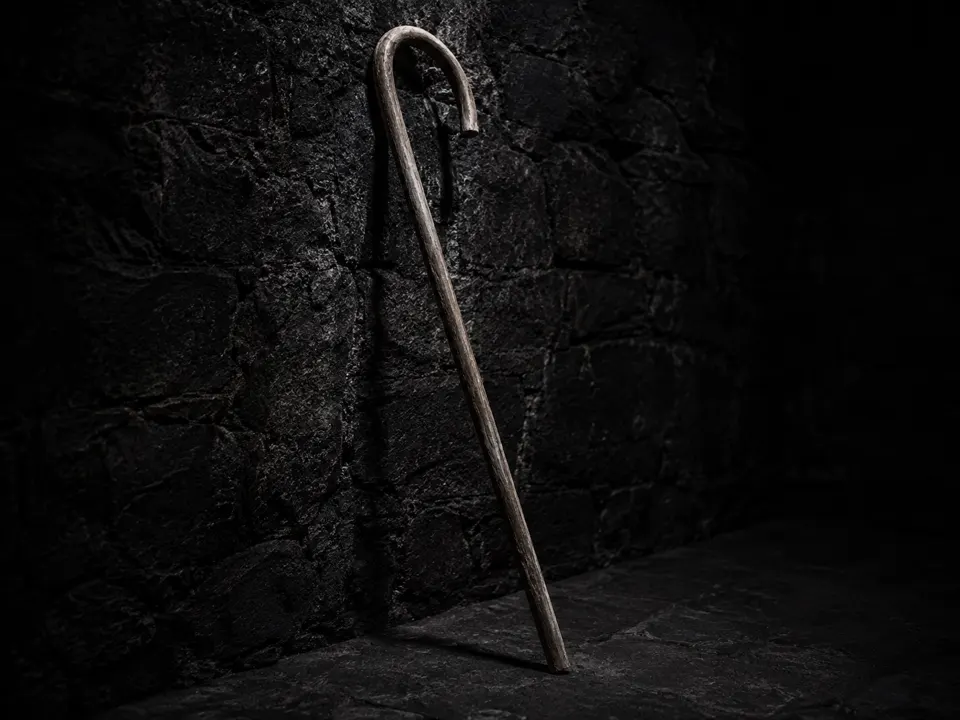
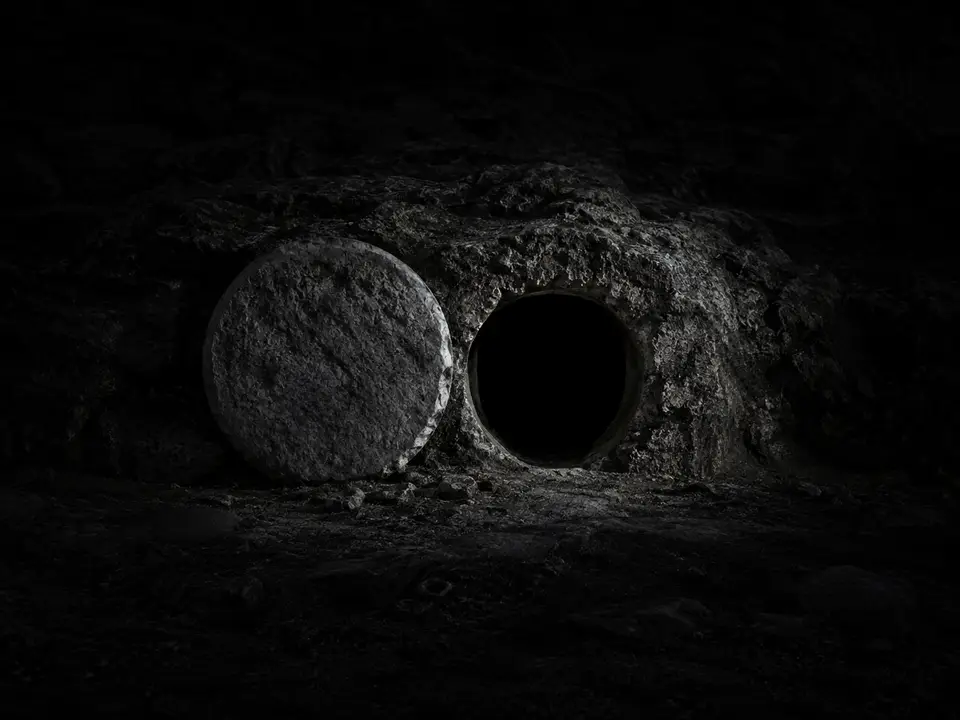
feat(learn): ship the who-is-jesus tomb cover; retire the horizon idea
The §17 stone rolled away replaces §11's crook under the same
filenames — 960x720 landscape, matching both the source and the
topic page's 4:3 frame.

§16's first light is marked superseded: shipped briefly, but twice
generated the horizon stayed a picture of almost nothing, and the
owner ruled the idea too thin for a card. §18 changes the argument
instead of the exposure — Paley's watch, the topic's own apologetic:
an exposed movement, no dial, because the argument is the mechanism,
not the time. Asset pending; the first-light files keep serving
until it lands.

Claude-Session: https://claude.ai/code/session_015vuexSSUSbhXARkoyDKz68

diff --git a/docs/graphics/PROMPTS.md b/docs/graphics/PROMPTS.md
@@ -476,7 +476,7 @@ Style: photographic, high contrast, sharply focused, not illustration, not a 3D 
 
 ## 16 · A primeira luz — first light (does-god-exist, recomposed)
 
-**Ships as:** `public/graphics/covers/does-god-exist.avif` + `.webp` — replaces §10's files under the same names, so `TOPIC_COVERS` and every consumer are untouched. The §8 move: same idea, recomposed for the surface that actually shows it.
+**Ships as:** shipped briefly, superseded by §18 — kept for the record. The recomposition gave §10's hairline enough weight to hold a card, but the owner ruled the line itself too thin an idea: twice generated, it stayed a picture of almost nothing. §18 changes the argument instead of the exposure.
 
 **Where it goes:** the third card of the homepage questions band and the topic page for `does-god-exist`. §10's rationale stands — cool and evidentiary, deliberately not a warm sunrise, light arriving out of darkness rather than mood — but the hairline is now a narrow graded band with enough presence to hold a card, and the composition is portrait with the horizon just below centre so it survives all three crops in use (3:4 card, 2.6:1 phone card, 4:3 topic page).
 
@@ -522,6 +522,32 @@ Composition: wide 4:3. The opening sits just off-centre with the rolled stone be
 Do not include: any text, any numerals, any people, figures, silhouettes, angels, hands, faces, folded cloth, linen, light rays, god rays, light coming from inside the tomb, glowing interiors, dawn skies, sun discs, gardens, flowers, trees, paths, steps, Roman soldiers, spears, helmets, gavels, scales, crosses, or lens flare. The opening is dark; the only light is the thin early light on the outside stone.
 
 Style: photographic, high contrast, sharply focused, architectural, not illustration, not a 3D render.
+```
+
+**▲ COPY TO HERE ▲**
+
+---
+
+## 18 · O relógio — the watchmaker's movement (does-god-exist)
+
+**Ships as:** `public/graphics/covers/does-god-exist.avif` + `.webp` — replaces §16's files under the same names, so `TOPIC_COVERS` and every consumer are untouched.
+
+**Where it goes:** the third card of the homepage questions band and the topic page for `does-god-exist`. The horizon (§10, §16) was cool and evidentiary but twice proved a picture of almost nothing; this is the topic's own apologetic made visible — Paley's watch, the argument Comfort runs as "a building proves a builder": an exposed mechanical movement, every part meshed with the next, is a made thing asking for its maker. No dial and no numerals — partly the house text rule, partly the point: the argument is the mechanism, not the time.
+
+**▼ COPY FROM HERE ▼**
+
+```
+Generate a new image.
+
+A macro photograph of the open back of an old mechanical pocket watch lying on a dark stone surface, its case back removed so the movement is exposed: interlocking gears of different sizes, a coiled spring, tiny screws, every part meshed with the next. One low raking light from the side catches the teeth of the gears and the edges where they mesh; everything else falls into deep shadow.
+
+Colour: near-black, #060404, fully desaturated and cold. The metal is dim steel grey — no gold, no brass, no copper, no amber, no warm tone of any kind.
+
+Composition: portrait 4:3, seen from directly above. The watch lies just off-centre, filling roughly half the frame, with generous even darkness around it on every side so the frame crops safely at other aspect ratios. No vignette, no border or frame.
+
+Do not include: any text, any numerals, any watch dial, clock face, clock hands, Roman numerals, engraved lettering, brand names, chains, straps, people, fingers, hands, workbenches, tools, loupes, other watches, gavels, scales, crosses, or lens flare. Only the open movement and the dark stone it lies on.
+
+Style: photographic macro, high contrast, sharply focused, not illustration, not a 3D render.
 ```
 
 **▲ COPY TO HERE ▲**
